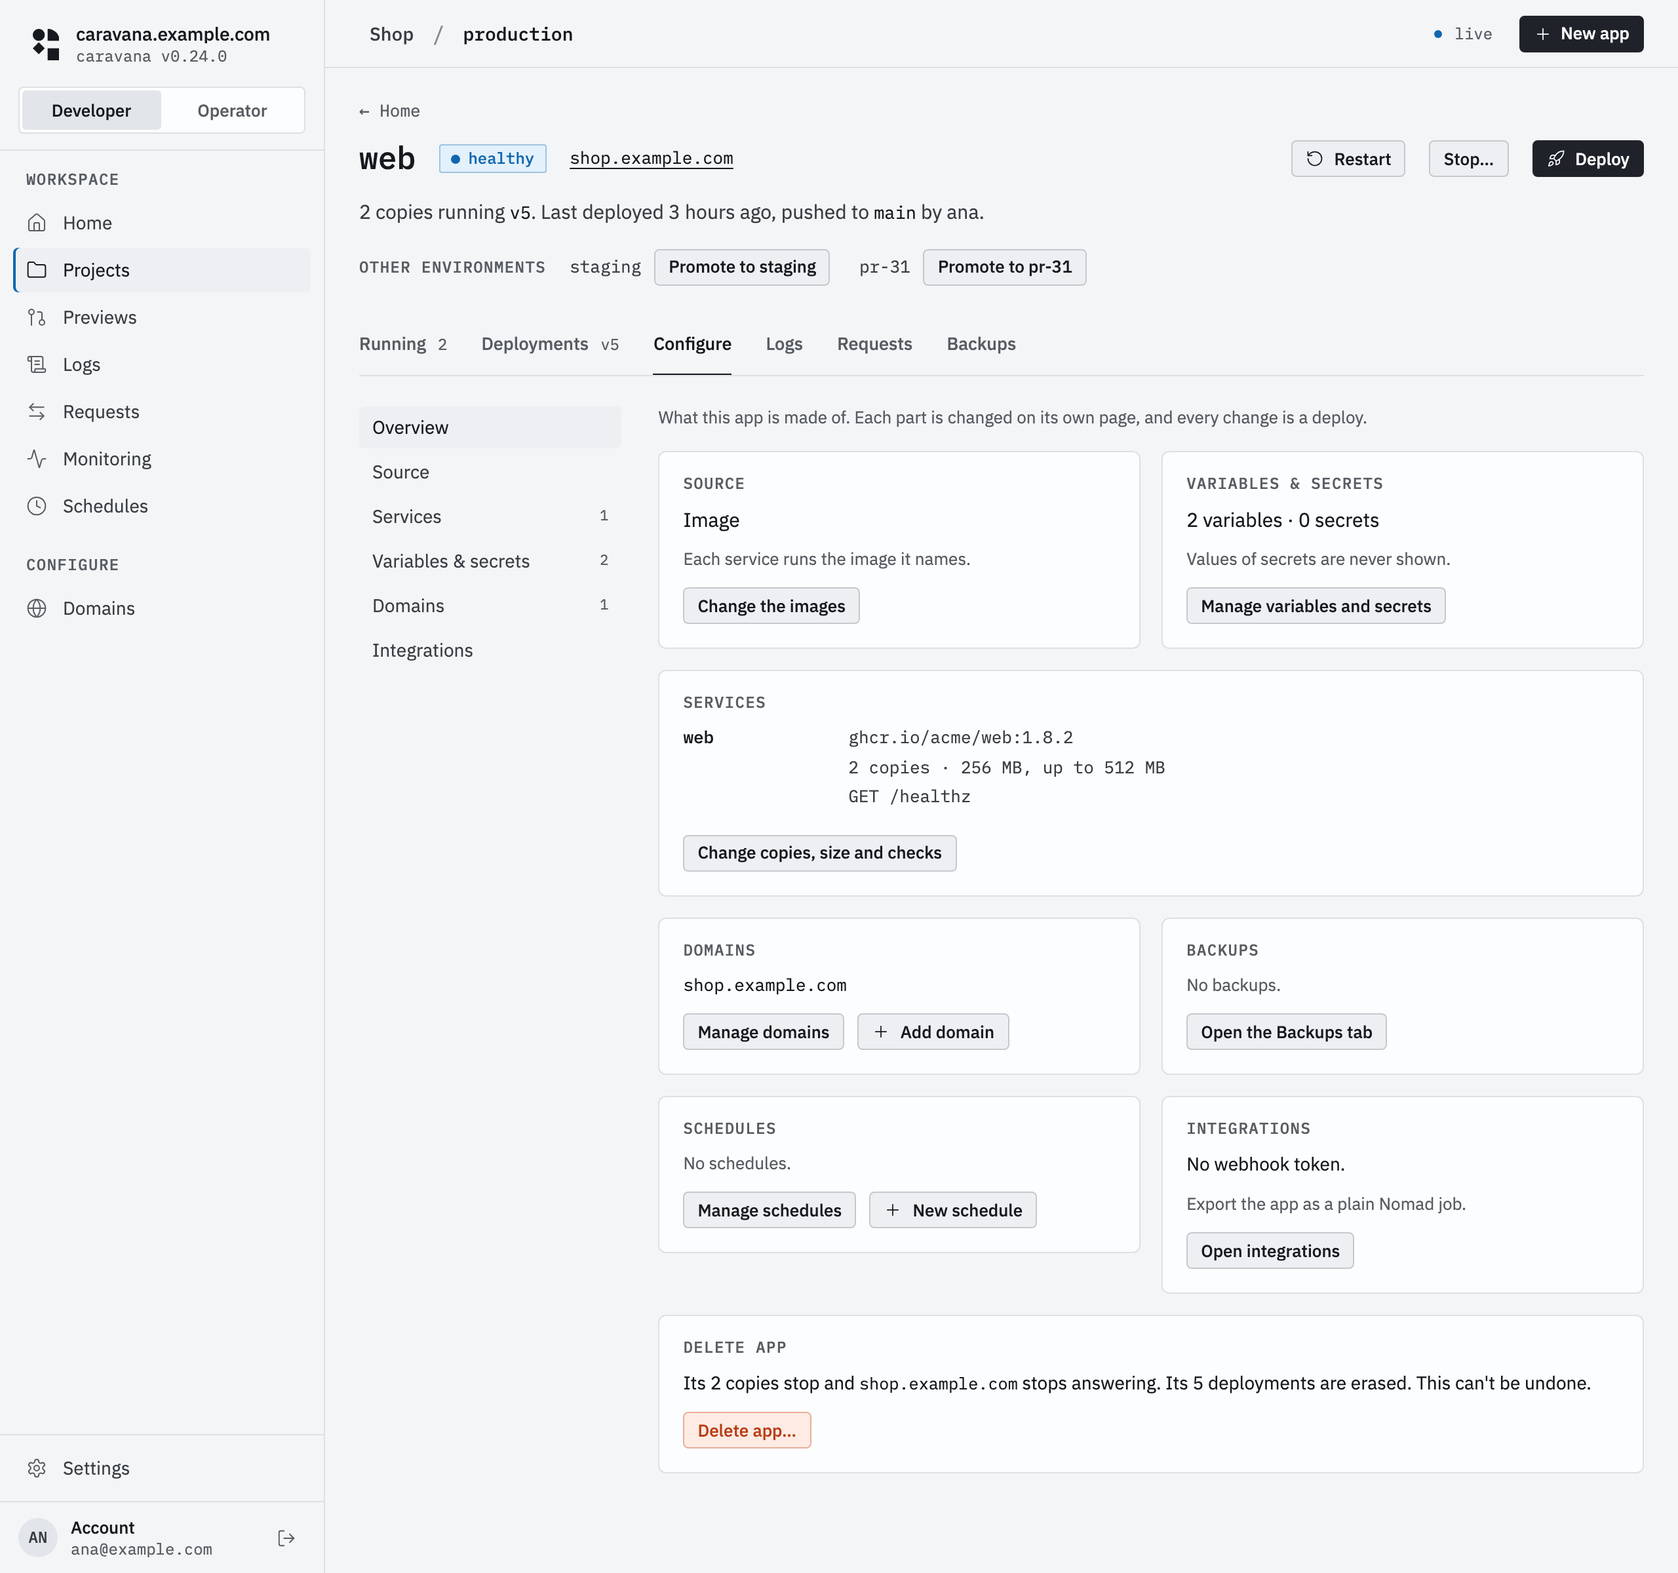
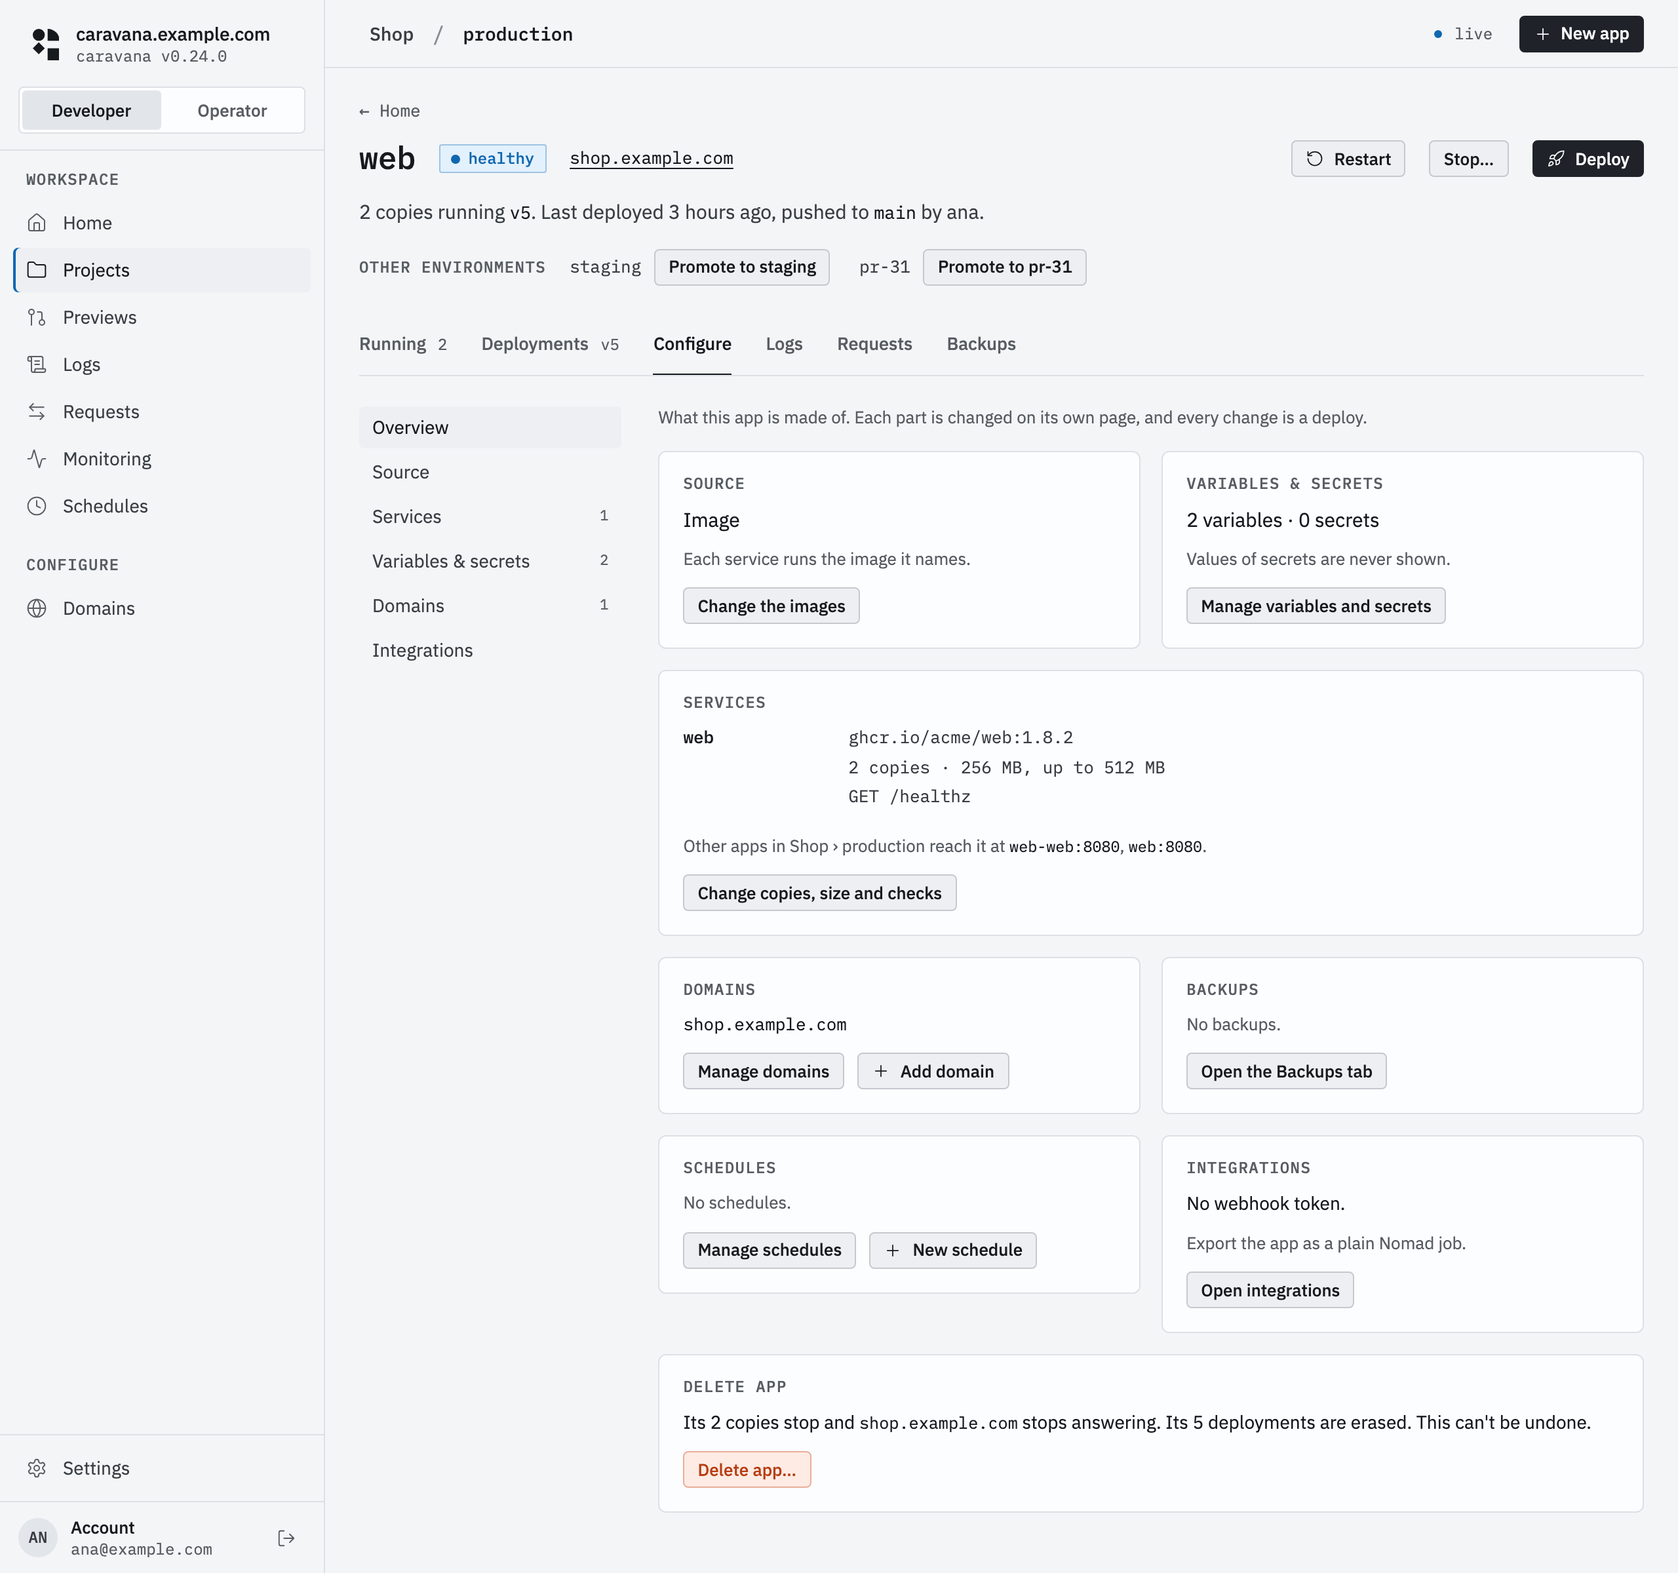
docs: a guide page, Connect apps to each other
docs/guide/configure/connect-apps.md says which names a service answers to inside its app and across its environment, where the console and the API show them, what a name doesn't reach (another environment, a name two apps claim), that names follow a copy without a redeploy, and what they are not (a firewall, a public address, HTTPS). The install, Compose, variables, templates, projects, servers and settings pages link to it or are corrected where they said names work only inside one app.

New screenshot app-configure-address (the demo's db app, which gained its port); app-running and app-configure retaken, since both draw the address line.

diff --git a/internal/ui/docsdemo_seed_test.go b/internal/ui/docsdemo_seed_test.go
@@ -231,7 +231,7 @@ func seedDocsApps(t *testing.T, d *docsDemo) {
 	d.apiIDs = d.runningCopies(apiApp.ID, "api", 3, 2, 20*time.Hour, 64, 142, 0, 2)
 
 	db := app.App{ID: shopID("production", "db"), Name: "db", Source: app.Source{Kind: app.SourceImage}, Services: []app.Service{{
-		Name: "db", Image: "postgres:16.4",
+		Name: "db", Image: "postgres:16.4", Ports: []app.Port{{Name: "postgres", ContainerPort: 5432}},
 		Volumes:   []app.Volume{{Name: "pgdata", Path: "/var/lib/postgresql/data"}},
 		Env:       []app.EnvVar{{Name: "POSTGRES_USER", Value: "shop"}, {Name: "POSTGRES_DB", Value: "shop"}},
 		Secrets:   []app.Secret{{Name: "POSTGRES_PASSWORD"}},

diff --git a/docs/guide/configure/connect-apps.md b/docs/guide/configure/connect-apps.md
@@ -1,0 +1,122 @@
+# Connect apps to each other
+
+An app often needs another app: an `api` that talks to a `db`, a worker that talks to a queue. Apps of one
+project and one environment reach each other by name, with no public address, no published port and no IP
+address to look up. If `db` is a Postgres app in `shop › production`, the `api` app of the same environment
+connects to `db:5432`. This page says which names exist, where the console shows them, and what they do not do.
+
+## The names
+
+Every service that has a port has names. A service without a port has none: it runs as a worker that nobody
+connects to.
+
+- **Inside an app**, a service answers to its own name, as in Compose. In an app with services `web` and `db`,
+  `web` connects to `db:5432`. See [From a Compose file](../deploy/compose.md#services-reach-each-other-by-name).
+- **From other apps of the environment**, a service answers to `<app>-<service>`. When it is the only service of
+  its app that has a port, it also answers to `<app>`.
+
+`<app>` is the app's name in its environment (`db`), not its long ID (`shop--production--db`). In the **Default**
+project's **production** environment the ID and the name are the same. Names are lowercase letters, digits and
+dashes, at most 63 characters, so a name is always a valid host name.
+
+| App in `shop › production` | Services with a port | Other apps reach it at |
+| --- | --- | --- |
+| `web` | `web` on 8080 | `web-web`, `web` |
+| `db` | `db` on 5432 | `db-db`, `db` |
+| `blog` (a Compose file) | `web` on 8080, `cache` on 6379 | `blog-web`, `blog-cache` |
+
+`blog` has no bare `blog` name because two of its services have ports: `blog` could mean either. Its own services
+still reach each other as `web` and `cache`.
+
+A name carries no port: you write the port yourself, as the container listens on it (`db:5432`). The connection goes straight to the container, not through the proxy, so any TCP protocol works
+(Postgres, Redis, a message broker), and there is no HTTPS on it.
+
+## Example: an api that uses a database
+
+1. Give the database a port. A service without one has no name. In this example `db` is a Postgres app whose
+   service has the port `5432` (the **Container port** field of **New app › Image**, or `expose: ["5432"]` in a
+   Compose file). Leaving **Health check path** empty makes a TCP check, which suits a database.
+2. Open the `db` app and choose **Configure**. On **Overview**, the **Services** panel says where it answers:
+   **Other apps in Shop › production reach it at** `db-db:5432`, `db:5432`.
+
+<picture>
+  <source media="(prefers-color-scheme: dark)" srcset="../../images/app-configure-address-dark.png">
+  <img alt="The Services panel of the db app's Configure Overview: the service db with its image, copies, memory and TCP check, and the line &quot;Other apps in Shop › production reach it at db-db:5432, db:5432&quot;." src="../../images/app-configure-address-light.png" width="620">
+</picture>
+
+3. Open the `api` app, **Configure › Variables & secrets**, and set a secret `DATABASE_URL` to
+   `postgres://shop:<password>@db:5432/shop`. It is a secret because it holds the password. Press **Set and
+   deploy**. See [Variables and secrets](variables.md).
+
+The `api` copies that start from that deploy connect to `db` by name. If `db` is deployed again or moves to another
+server, `api` needs nothing: see "The names follow the copy" below.
+
+## Where to read an app's address
+
+- **Configure › Overview**, in the **Services** panel.
+- The **Running** tab, above the table of copies. It is drawn only while the app has copies.
+- The **Deployments** tab you land on after installing a template, under **Installed from the … template**.
+- The API: `getApp` (`GET /v1/apps/{id}`) answers `addresses`, one entry per service with a port, with its `ports`,
+  the `names` other apps use, its `ownName` and any `conflicts`. The MCP tool `get_app` returns the same answer.
+
+When a service has more than one name, or the app has more than one service, the line is repeated for each service,
+and an app with several services adds **Its own services reach it at** `web:8080`. The console shows the first port
+of the service next to each name. With a single project and environment, **Other apps in** says **this
+environment** instead of `Shop › production`.
+
+Installed from the PostgreSQL template, the app is called `postgres` and has two services with a port, Postgres
+and Adminer. Other apps reach the database at `postgres-postgres:5432`, not at `postgres`.
+
+## What a name does and does not reach
+
+- **Another environment.** `staging` apps do not resolve `production` names, and the other way round. A preview
+  (`pr-<n>`) is an environment too: it reaches the apps deployed into it. See
+  [Projects and environments](../operate/projects.md).
+- **A name two apps claim.** It answers to neither. Both apps' pages say so and name the other:
+  "`db-admin` answers to nothing: app `db-admin` claims it too." (This is the page of an app `db` with a service
+  `admin`, and another app called `db-admin`: both claim `db-admin`.) If every name of a service collides, the page says
+  "No other app can reach it by name until one of the apps below is renamed." An app's own service names always win
+  inside that app. The claim ends when one of the apps or services goes away or is named differently.
+- **A service with several copies.** Its name leads to every running copy: the hosts file has one line per copy.
+  Which one a connection reaches is up to the client's resolver. During a deploy, canaries are left out until they
+  are promoted, so the name keeps pointing at the version that was live.
+- **A stopped app.** Its names do not resolve, and the pages do not count it as claiming any, so it cannot cause
+  a collision. An app that is defined but not deployed yet resolves nothing either, but the pages count its names
+  as claimed, since they are the ones it will register.
+- **A worker with no port.** It has no name, but it resolves everyone else's. So do the runs of a
+  [schedule](../operate/schedules.md).
+
+## The names follow the copy
+
+A restart, a redeploy or a move to another server gives a copy a new address. The apps that connect to it do not
+need a deploy: their copies notice the change and update their names, usually within seconds. The same is true
+when a new app appears, an app is deleted, or a service is stopped.
+
+Between servers the traffic crosses the private WireGuard network that [Add a server](../host/servers.md) sets up,
+so it is encrypted there. On one server it stays on the host and is not encrypted.
+
+## What this is not
+
+- **It is not a firewall.** A name that does not resolve is not a barrier: any app's container can still reach
+  another app's port by address, and an environment is not a network boundary. See [Install](../install.md#apps-share-the-hosts-network).
+- **It is not a public address.** Nothing outside the installation resolves these names. To serve a service to the
+  internet, add a [domain](domains.md), or for a port that is not HTTP, [publish a port](../../published-ports.md).
+- **It is not HTTPS.** The connection is plain TCP to the container.
+
+## After an upgrade
+
+An app gets its names the next time it is deployed. Redeploy both apps of a pair once, the one that is called
+and the one that calls, before they reach each other by name.
+
+## How it works
+
+Every service with a port registers its address in Nomad under its names. Every group of every app has a small
+helper task, `names`, that rewrites the group's `/etc/hosts` from that list and keeps it up to date. It reserves
+16 MB of memory and 20 MHz of CPU per group, in apps with one service too. You can see it as a task in an app's
+exported jobspec.
+
+## Next
+
+- [Variables and secrets](variables.md)
+- [From a Compose file](../deploy/compose.md)
+- [Projects and environments](../operate/projects.md)

diff --git a/docs/guide/console.md b/docs/guide/console.md
@@ -90,7 +90,7 @@ Click an app to open it. Its header shows its name, status, addresses and a summ
 
 <picture>
   <source media="(prefers-color-scheme: dark)" srcset="../images/app-running-dark.png">
-  <img alt="The Running tab of an app with its copies table." src="../images/app-running-light.png" width="760">
+  <img alt="The Running tab of the web app: a line saying other apps in Shop › production reach it at web-web:8080 and web:8080, above its table of two copies." src="../images/app-running-light.png" width="760">
 </picture>
 
 Configure has a side menu with six sections, each its own page with its own form, and each save is its own deploy:
@@ -106,7 +106,7 @@ Configure has a side menu with six sections, each its own page with its own form
 
 <picture>
   <source media="(prefers-color-scheme: dark)" srcset="../images/app-configure-dark.png">
-  <img alt="The Overview section of Configure for the web app: a side menu with six sections and read-only panels for source, variables and secrets, services, domains, backups, schedules and integrations." src="../images/app-configure-light.png" width="760">
+  <img alt="The Overview section of Configure for the web app: a side menu with six sections and read-only panels for source, variables and secrets, services (with the names other apps reach it at), domains, backups, schedules and integrations." src="../images/app-configure-light.png" width="760">
 </picture>
 
 ## Settings

diff --git a/docs/guide/deploy/templates.md b/docs/guide/deploy/templates.md
@@ -41,6 +41,11 @@ the number of the template's own revision.
 | **Umbral** | An OpenID Connect provider that signs people in with social accounts or passkeys, no passwords. | One service with a volume, backed up daily. |
 | **Codemagic Patch** | Over-the-air updates for React Native and Capacitor apps, on your own server and R2 buckets. | A server and Postgres, Postgres backed up daily. It asks you for an image: Codemagic publishes none, so you build and push one first (the template's notes say how). |
 
+A template that makes a database, such as **PostgreSQL**, can be used by your other apps of the same environment. After
+**Create**, the notice on the **Deployments** tab says where each of its services answers, for example
+`postgres-postgres:5432`. The template has two services with a port, so there is no bare `postgres` name for other
+apps. See [Connect apps to each other](../configure/connect-apps.md).
+
 This is the catalog built into this version of Caravana. A newer catalog can be fetched, as described below, so the grid
 on your installation may have more.
 

diff --git a/docs/guide/host/servers.md b/docs/guide/host/servers.md
@@ -17,7 +17,7 @@ Every server runs Docker, Nomad and a small agent (`caravana-node`) that keeps i
 
 - It gets a place on a private, encrypted network (WireGuard) between all the servers. Each server has a number from 1 to 63, and its addresses on that network come from the number. Nothing is typed in.
 - It gets a certificate, signed by a certificate authority Caravana keeps, so the servers' Nomad traffic is encrypted and each server proves who it is. The server keeps its own private key; it never leaves the machine. Certificates last 90 days and are renewed by the agent.
-- Nomad on it starts taking copies. Services with several copies are spread over the servers. Services of one app reach each other by name across servers.
+- Nomad on it starts taking copies. Services with several copies are spread over the servers. Services reach each other by name across servers, inside one app and between the apps of one environment (see [Connect apps to each other](../configure/connect-apps.md)).
 
 ### What still runs only on the first server
 

diff --git a/docs/guide/configure/variables.md b/docs/guide/configure/variables.md
@@ -20,6 +20,9 @@ page).
 | In the API's answers and the logs | Yes, as part of the definition | No: the stored app, the answers, the logs and the Nomad job hold the name only |
 | Reaches the container as | An environment variable | An environment variable |
 
+To point one app at another, such as a `DATABASE_URL` for a database app of the same environment, use the other
+app's name; see [Connect apps to each other](connect-apps.md).
+
 Use a secret for anything that grants access when read: passwords, API keys, tokens, private keys. Use a
 plain variable for ordinary settings such as `NODE_ENV=production`. The **Add or change** form has a box,
 **Keep as a secret (the value is never shown again)**, which is ticked by default. Untick it only for a value

diff --git a/docs/guide/operate/projects.md b/docs/guide/operate/projects.md
@@ -2,7 +2,9 @@
 
 A **project** groups the apps of one product. Each project has **environments**, such as `staging` and
 `production`, and each environment has its own copy of the apps. This is how you run the same product in more
-than one place on one installation, and how you move a tested version from one place to the next.
+than one place on one installation, and how you move a tested version from one place to the next. The apps of one
+environment reach each other by name, and apps of another environment do not resolve them: see
+[Connect apps to each other](../configure/connect-apps.md).
 
 <picture>
   <source media="(prefers-color-scheme: dark)" srcset="../../images/projects-dark.png">

diff --git a/docs/guide/install.md b/docs/guide/install.md
@@ -122,7 +122,8 @@ journalctl -u caravana
 Apps on one host are not isolated from each other: any app's container can reach another app's port
 directly. Apps of one project and environment reach each other by name: a service with ports answers to
 `<app>-<service>`, and to `<app>` when it is the app's only service with ports. Configure's Overview
-says which names a service answers to.
+says which names a service answers to. See [Connect apps to each other](configure/connect-apps.md); names are a
+convenience, not a barrier.
 
 An app that trusts `X-Forwarded-*` headers should trust them only from `10.99.0.1`, the address
 Traefik's requests come from, and never from the bridge gateway.

diff --git a/docs/guide/reference/settings.md b/docs/guide/reference/settings.md
@@ -109,7 +109,7 @@ built-in one.
 
 | Variable | Flag | What it is |
 | --- | --- | --- |
-| `CARAVANA_NAMES_IMAGE` | `-names-image` | The sidecar that lets the services of an app reach each other by name. |
+| `CARAVANA_NAMES_IMAGE` | `-names-image` | The sidecar that lets services reach each other by name, inside an app and between the apps of an environment. |
 | `CARAVANA_BACKUP_IMAGE` | `-backup-image` | The image that uploads and downloads backups (rclone). |
 | `CARAVANA_SQLITE_IMAGE` | `-sqlite-image` | The sidecar that makes and checks copies of a SQLite database. |
 | `CARAVANA_SCANNER_IMAGE` | `-scanner-image` | The vulnerability scanner of the optional image scanner. |

diff --git a/docs/guide/first-app.md b/docs/guide/first-app.md
@@ -70,7 +70,7 @@ Click the **Running** tab. The **Copies** table lists each copy with its **Statu
 
 <picture>
   <source media="(prefers-color-scheme: dark)" srcset="../images/app-running-dark.png">
-  <img alt="The Running tab of an app: its address next to the name, and a table with one healthy copy." src="../images/app-running-light.png" width="760">
+  <img alt="The Running tab of an app: its address next to the name, a line with the names other apps reach it at, and a table with copies." src="../images/app-running-light.png" width="760">
 </picture>
 
 The app's address is next to its name at the top of the page. Open it: whoami prints the request it

diff --git a/docs/guide/deploy/compose.md b/docs/guide/deploy/compose.md
@@ -152,7 +152,9 @@ value in place.
 
 Every service of an app reaches the others by its service name, whatever networks the file declares, and also across
 servers once you have added more. If the file has `db` and `web`, `web` connects to `db:5432`. Caravana does this by
-keeping each copy's hosts file up to date with the addresses of the app's other services.
+keeping each copy's hosts file up to date with the addresses of the app's other services. Other apps of the same
+project and environment reach a service with a port as `<app>-<service>` (for example `blog-db:5432`): see
+[Connect apps to each other](../configure/connect-apps.md).
 
 ### Volumes
 

diff --git a/docs/guide/index.md b/docs/guide/index.md
@@ -84,6 +84,7 @@ Then pick what you need:
   [from CI](deploy/ci.md), [from a .NET Aspire AppHost](deploy/aspire.md), and
   [how a deploy works and how to roll back](deploy/rollback.md).
 - **Configure an app:** [variables and secrets](configure/variables.md),
+  [connect apps to each other](configure/connect-apps.md),
   [domains and HTTPS](configure/domains.md), [volumes](configure/volumes.md),
   [copies, memory and health checks](configure/resources.md).
 - **Day to day:** [projects and environments](operate/projects.md), [logs](operate/logs.md),
